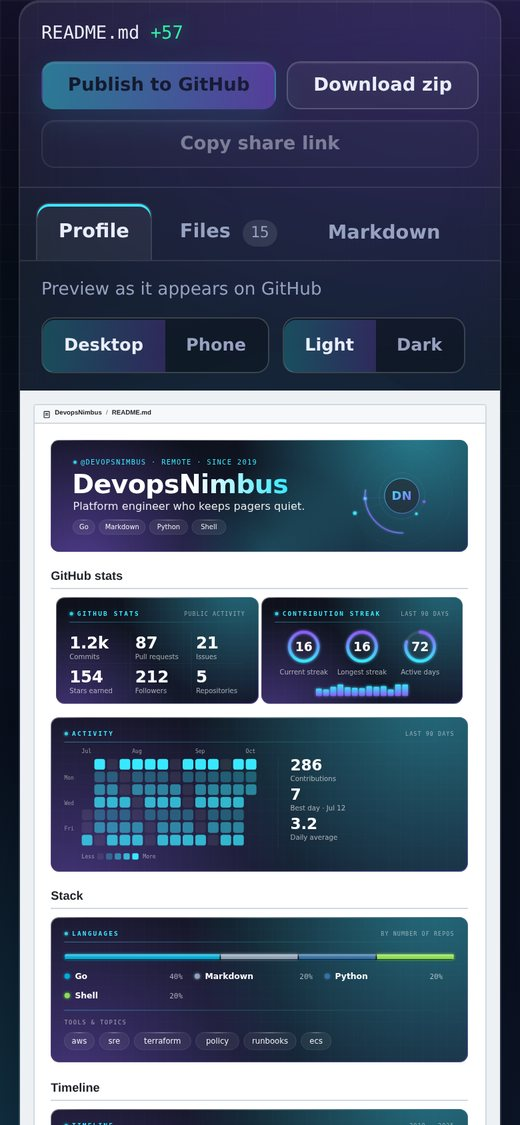
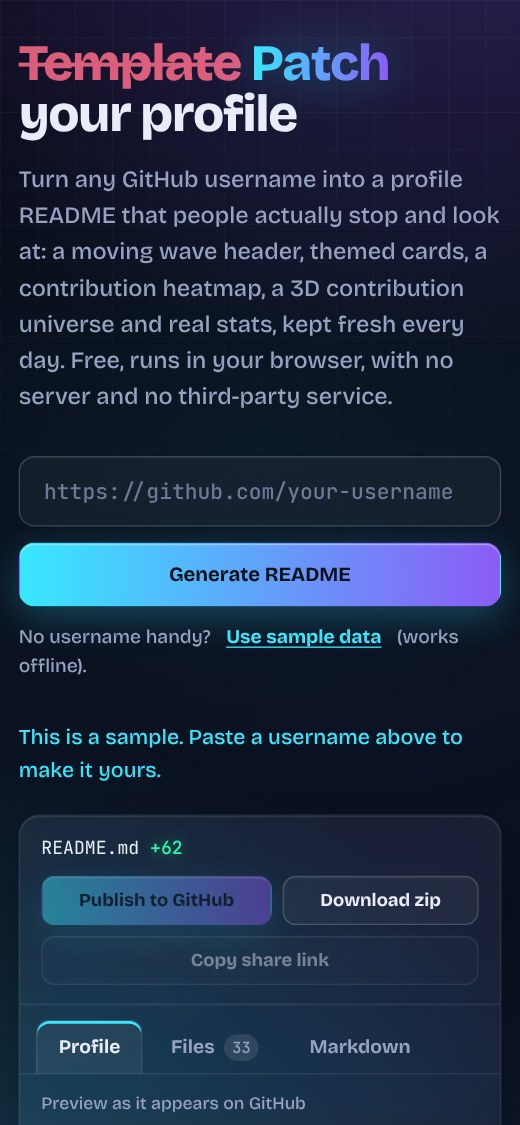
Show the new design by default: wave header/footer and 3D universe on; refresh screenshots
- Wave header and footer and the 3D contribution universe are now on by
  default (page checkboxes ticked, DEFAULTS), so the website's sample and
  every new user start with them; --no-wave and --no-universe turn them
  off from the CLI, and share links record only the switch-offs.
- Universe planets keep their fixed angle as an attribute, so a stopped
  animation still shows each planet in place; no zero animation-delay.
- Tests that exercise the orbit banner now ask for it explicitly; the
  motion test strips every animation class.
- Hero copy mentions the wave header and the 3D universe; the three docs
  screenshots are regenerated from the current code.

Claude-Session: https://claude.ai/code/session_016vZ4YTLGbkjEUoZbnyCWxy

diff --git a/test/core.test.js b/test/core.test.js
@@ -58,10 +58,10 @@ test("banner escapes markup in names and bios", () => {
 });
 
 test("banner is deterministic per username and differs between users", () => {
-  const a = core.buildBanner(core.SAMPLE, {});
-  assert.strictEqual(a, core.buildBanner(core.SAMPLE, {}));
+  const a = core.buildBanner(core.SAMPLE, { wave: false });
+  assert.strictEqual(a, core.buildBanner(core.SAMPLE, { wave: false }));
   const other = core.buildModel({ login: "someone-else", name: "Someone Else", created_at: "2024-01-01T00:00:00Z" }, []);
-  const b = core.buildBanner(other, {});
+  const b = core.buildBanner(other, { wave: false });
   const orbit = (svg) => (svg.match(/<circle cx="[\d.]+" cy="[\d.]+" r="[\d.]+" fill="#[0-9a-f]{6}" filter="url\(#glow\)"\/>/g) || []).join("");
   assert.notStrictEqual(orbit(a), orbit(b));
   assert.match(a, />DN</);          // initials in the core
@@ -513,7 +513,7 @@ test("text hero puts the designation directly under the name", () => {
 });
 
 test("banner shows the designation right after the name, with location in the handle line", () => {
-  const svg = core.buildBanner(core.SAMPLE, { role: "Platform Engineer" });
+  const svg = core.buildBanner(core.SAMPLE, { role: "Platform Engineer", wave: false });
   const name = svg.indexOf(">DevopsNimbus<"), des = svg.indexOf(">Platform Engineer at Northwind<");
   assert.ok(name > 0 && des > name);
   assert.match(svg, /@DEVOPSNIMBUS · REMOTE · SINCE 2019/);
@@ -521,8 +521,8 @@ test("banner shows the designation right after the name, with location in the ha
 });
 
 test("a tagline becomes a smaller second line under the designation, and the chips move down", () => {
-  const without = core.buildBanner(core.SAMPLE, { role: "Platform Engineer" });
-  const withTag = core.buildBanner(core.SAMPLE, { role: "Platform Engineer", tagline: "I keep the pagers quiet" });
+  const without = core.buildBanner(core.SAMPLE, { role: "Platform Engineer", wave: false });
+  const withTag = core.buildBanner(core.SAMPLE, { role: "Platform Engineer", tagline: "I keep the pagers quiet", wave: false });
   assert.ok(withTag.includes(">I keep the pagers quiet<"));
   assert.ok(without.includes('y="228"') && withTag.includes('y="252"'));
   const md = core.buildReadme(core.SAMPLE, { banner: false, role: "Platform Engineer", tagline: "I keep the pagers quiet" });
@@ -536,9 +536,12 @@ test("without a job title, the tagline (then location) takes the designation slo
 });
 
 test("long designations are shortened in the banner and escaped", () => {
-  const svg = core.buildBanner(core.SAMPLE, { role: "<Head of> " + "Platform ".repeat(12) });
-  assert.match(svg, /&lt;Head of&gt;/);
-  assert.match(svg, /…</);
+  ["orbit", "wave"].forEach((style) => {
+    const svg = core.buildBanner(core.SAMPLE, { role: "<Head of> " + "Platform ".repeat(12), wave: style === "wave" });
+    assert.match(svg, /&lt;Head of&gt;/, style);
+    // the orbit banner cuts it short; the wave banner first shrinks the line to its smallest size
+    assert.match(svg, style === "orbit" ? /…</ : /font-size="14"[^>]*>&lt;Head of&gt;/, style);
+  });
 });
 
 test("project card footer shortens itself instead of colliding with a long language name", () => {
@@ -603,7 +606,8 @@ test("auto theme follows the username and a fixed theme ignores it", () => {
 
 test("the chosen theme reaches the banner and every card", () => {
   const pal = core.palette("DevopsNimbus", "sunset");
-  const all = [core.buildBanner(core.SAMPLE, { theme: "sunset" })].concat(cards.buildCards(core.SAMPLE, { theme: "sunset" }).map((f) => f.data));
+  // the orbit banner and every card carry the theme's own colours (the wave pieces darken them for white text: tested with the wave)
+  const all = [core.buildBanner(core.SAMPLE, { theme: "sunset", wave: false })].concat(cards.buildCards(core.SAMPLE, { theme: "sunset", wave: false }).map((f) => f.data));
   all.forEach((svg, i) => { assert.ok(svg.includes(pal.a1) && svg.includes(pal.bg1), "file " + i + " is not themed"); });
   const paper = cards.buildCards(core.SAMPLE, { theme: "paper" }).map((f) => f.data).join("");
   assert.ok(paper.includes('fill="#0f172a"'), "paper uses dark text");
@@ -612,7 +616,7 @@ test("the chosen theme reaches the banner and every card", () => {
 
 /* ---------- motion ---------- */
 test("motion is on by default, switchable off, and never changes the still design", () => {
-  const strip = (svg) => svg.replace(/<style>[\s\S]*?<\/style>/g, "").replace(/ class="fx-[a-z0-9]+"/g, "").replace(/ style="[^"]*"/g, "");
+  const strip = (svg) => svg.replace(/<style>[\s\S]*?<\/style>/g, "").replace(/ class="(?:fx|wv|u)-[a-z0-9]+"/g, "").replace(/ style="[^"]*"/g, "");
   const files = (animate) => [core.buildBanner(core.SAMPLE, { animate })].concat(cards.buildCards(core.SAMPLE, { animate }).map((f) => f.data));
   const on = files(true), off = files(false);
   on.forEach((svg, i) => {
@@ -628,7 +632,8 @@ test("motion never hides content: only ambient loops, no entrance effects that r
   assert.doesNotMatch(css, /opacity:0[;}]|scaleY\(0\)|stroke-dasharray:0|stroke-dashoffset/, "no fade-in, grow-in or draw-in start states");
   [...css.matchAll(/\.fx-[a-z0-9]+\{[^}]*\}/g)].forEach(([rule]) => assert.match(rule, /infinite/, rule + " must be an ambient loop"));
   const all = [core.buildBanner(core.SAMPLE, {})].concat(cards.buildCards(core.SAMPLE, {}).map((f) => f.data));
-  all.forEach((svg) => assert.doesNotMatch(svg, /animation-delay/, "nothing waits before it appears"));
+  // a negative delay only sets where a loop starts (the universe's planets); a positive one would hold content back
+  all.forEach((svg) => assert.doesNotMatch(svg, /animation-delay:(?!-)/, "nothing waits before it appears"));
 });
 
 test("animated files stay light and contain nothing that could run code", () => {
@@ -779,7 +784,7 @@ test("buildFiles returns README, banner and cards; adaptive doubles the images a
 });
 
 test("the light set is genuinely light and the dark set genuinely dark", () => {
-  const dual = cards.buildFiles(core.SAMPLE, { adaptive: true, theme: "cyber" });
+  const dual = cards.buildFiles(core.SAMPLE, { adaptive: true, theme: "cyber", wave: false });
   const get = (n) => dual.find((f) => f.name === n).data;
   // each half sits on GitHub's own page colour, with GitHub's border, and keeps the theme's accents
   ["banner.svg", "cards/stats.svg"].forEach((n) => {
@@ -789,10 +794,10 @@ test("the light set is genuinely light and the dark set genuinely dark", () => {
   ["banner-light.svg", "cards/stats-light.svg"].forEach((n) => assert.ok(get(n).includes('stop-color="#ffffff"') && get(n).includes('stroke="#d1d9e0"'), n + " uses GitHub's light surface"));
   assert.ok(get("cards/stats-light.svg").includes('fill="#0f172a"'));
   assert.ok(!get("cards/stats.svg").includes('fill="#0f172a"'));
-  const paperDual = cards.buildFiles(core.SAMPLE, { adaptive: true, theme: "paper" });
+  const paperDual = cards.buildFiles(core.SAMPLE, { adaptive: true, theme: "paper", wave: false });
   assert.ok(paperDual.find((f) => f.name === "banner.svg").data.includes(core.THEMES.royal.a1), "a Paper profile still gets a dark twin");
   // a single set can land on either page, so it keeps the full themed background
-  const single = cards.buildFiles(core.SAMPLE, { adaptive: false, theme: "cyber" });
+  const single = cards.buildFiles(core.SAMPLE, { adaptive: false, theme: "cyber", wave: false });
   assert.ok(single.find((f) => f.name === "banner.svg").data.includes(core.THEMES.cyber.bg1));
 });
 
@@ -898,7 +903,7 @@ test("custom theme: a good colour is kept as chosen, hex is case-insensitive, ba
 });
 
 test("custom theme: reaches the banner and every card, in both halves of an adaptive set", () => {
-  const o = { theme: "custom", accent1: "#ff8800", accent2: "#00c2a8", adaptive: true, animate: false };
+  const o = { theme: "custom", accent1: "#ff8800", accent2: "#00c2a8", adaptive: true, animate: false, wave: false };   // the orbit banner shows the raw accents
   const files = cards.buildFiles(core.SAMPLE, o), get = (n) => files.find((f) => f.name === n).data;
   const dark = core.paletteFor("DevopsNimbus", Object.assign({}, o, { mode: "dark", native: true })), light = core.paletteFor("DevopsNimbus", Object.assign({}, o, { mode: "light", native: true }));
   assert.ok(get("banner.svg").includes(dark.a1) && get("banner.svg").includes(dark.bg1));
@@ -922,10 +927,12 @@ test("section order ignores unknown and repeated entries, keeps hidden sections 
   assert.deepStrictEqual(core.sectionOrder({ order: "projects, nonsense, PROJECTS ,stats,,connect" }), ["projects", "stats", "connect", "stack", "timeline"]);
   assert.deepStrictEqual(core.sectionOrder({}), core.SECTIONS);
   assert.deepStrictEqual(core.sectionOrder({ order: "" }), core.SECTIONS);
-  const md = core.buildReadme(core.SAMPLE, { order: "connect,projects", timeline: false, links: false });
+  const md = core.buildReadme(core.SAMPLE, { order: "connect,projects", timeline: false, links: false, wave: false });
   assert.deepStrictEqual(sectionsIn(md), ["projects", "stats", "stack"]);
   assert.ok(md.indexOf("banner.svg") < md.indexOf("## "), "header stays first");
   assert.ok(md.trimEnd().endsWith("</sub>") && md.lastIndexOf("---") > md.lastIndexOf("## "), "footer stays last");
+  const wave = core.buildReadme(core.SAMPLE, { order: "connect,projects" });
+  assert.ok(wave.lastIndexOf("footer") > wave.lastIndexOf("## ") && /<\/sub>\n\n<\/div>\s*$/.test(wave), "the wave footer and credit stay last");
 });
 
 test("every ordering of the five sections gives a complete README whose images all exist", () => {
@@ -1253,8 +1260,9 @@ test("initials: always something sensible, never empty, and always capitals", ()
 
 /* ---------- 3D contribution universe (ported from Git3D Universe) ---------- */
 test("the universe is opt-in, sits in the stats grid, and gets a light twin like every other card", () => {
-  assert.strictEqual(core.DEFAULTS.universe, false);
-  assert.doesNotMatch(core.buildReadme(core.SAMPLE, {}), /universe\.svg/);
+  assert.strictEqual(core.DEFAULTS.universe, true, "on by default, so the sample and new users show it");
+  assert.match(core.buildReadme(core.SAMPLE, {}), /universe/);
+  assert.doesNotMatch(core.buildReadme(core.SAMPLE, { universe: false }), /universe\.svg/, "and it can be switched off");
   const files = cards.buildFiles(core.SAMPLE, { universe: true }), names = files.map((f) => f.name), md = files[0].data;
   assert.ok(names.includes("cards/universe.svg") && names.includes("cards/universe-light.svg"));
   const section = md.split("## GitHub stats")[1].split("## Stack")[0];
@@ -1263,8 +1271,9 @@ test("the universe is opt-in, sits in the stats grid, and gets a light twin like
   assert.doesNotMatch(core.buildReadme(core.SAMPLE, { universe: true, cards: false }), /universe/, "text mode has no images");
   const quiet = Object.assign({}, core.SAMPLE, { activity: null });
   assert.doesNotMatch(core.buildReadme(quiet, { universe: true }), /universe/, "nothing to draw without activity");
-  assert.match(core.toQuery("x", { universe: true }), /universe=1/);
-  assert.strictEqual(core.fromQuery("?universe=1").opts.universe, true);
+  assert.match(core.toQuery("x", { universe: false }), /universe=0/);
+  assert.doesNotMatch(core.toQuery("x", {}), /universe/);
+  assert.strictEqual(core.fromQuery("?universe=0").opts.universe, false);
 });
 
 test("the universe follows the chosen theme and GitHub's page colours, and stays light and safe", () => {
@@ -1299,8 +1308,9 @@ test("the universe turns the daily counts into Sunday-first weeks and the same n
 
 /* ---------- wave header and footer ---------- */
 test("wave header and footer: opt-in, both halves of Day and night, footer above the credit", () => {
-  assert.strictEqual(core.DEFAULTS.wave, false);
-  assert.doesNotMatch(core.buildBanner(core.SAMPLE, {}), /id="wave"/, "the orbit banner stays the default");
+  assert.strictEqual(core.DEFAULTS.wave, true, "on by default, so the sample and new users show it");
+  assert.match(core.buildBanner(core.SAMPLE, {}), /id="wave"/);
+  assert.doesNotMatch(core.buildBanner(core.SAMPLE, { wave: false }), /id="wave"/, "the orbit banner is still one tick away");
   const files = cards.buildFiles(core.SAMPLE, { wave: true, role: "SRE", stack: "AWS, Go", tagline: "Ship it" }), names = files.map((f) => f.name), md = files[0].data;
   ["banner.svg", "banner-light.svg", "cards/footer.svg", "cards/footer-light.svg"].forEach((n) => assert.ok(names.includes(n), n));
   const banner = files.find((f) => f.name === "banner.svg").data;
@@ -1309,7 +1319,8 @@ test("wave header and footer: opt-in, both halves of Day and night, footer above
   assert.match(tail, /Patched together/, "the credit sits under the wave footer");
   assert.doesNotMatch(md, /\n---\n<sub>/, "no plain rule when the wave footer is on");
   assert.doesNotMatch(core.buildReadme(core.SAMPLE, { wave: true, cards: false }), /footer\.svg/, "text mode has no images");
-  assert.match(core.toQuery("x", { wave: true }), /wave=1/);
+  assert.match(core.toQuery("x", { wave: false }), /wave=0/);
+  assert.doesNotMatch(core.toQuery("x", {}), /wave/);
 });
 
 test("wave: readable white text on every gradient stop, the gradient stays put, and motion follows the rules", () => {

diff --git a/index.html b/index.html
@@ -8,7 +8,7 @@
 <meta name="theme-color" content="#060913">
 <meta name="viewport" content="width=device-width, initial-scale=1, viewport-fit=cover">
 <title>Patch your profile: a glass-style GitHub profile README generator</title>
-<meta name="description" content="Turn any GitHub username into a premium profile README with themed glass cards, a contribution heatmap, stats and a timeline. Free, runs in your browser, no server and no third-party service.">
+<meta name="description" content="Turn any GitHub username into a premium profile README with a moving wave header, themed cards, a contribution heatmap, a 3D contribution universe, stats and a timeline, kept fresh every day. Free, runs in your browser, no server and no third-party service.">
 <meta property="og:title" content="Patch your profile: premium GitHub profile README generator">
 <meta property="og:description" content="Themed glass cards, contribution heatmap, stats and timeline for your GitHub profile. Free and runs in your browser.">
 <meta property="og:type" content="website">
@@ -21,7 +21,7 @@
 <a class="skip" href="#main">Skip to the tool</a>
 <div class="wrap">
   <h1><span class="minus">Template</span> <span class="plus">Patch</span> your profile</h1>
-  <p class="lede">Turn any GitHub username into a profile README that people actually stop and look at: themed glass cards, a contribution heatmap, real stats and a timeline. Free, runs in your browser, with no server and no third-party service.</p>
+  <p class="lede">Turn any GitHub username into a profile README that people actually stop and look at: a moving wave header, themed cards, a contribution heatmap, a 3D contribution universe and real stats, kept fresh every day. Free, runs in your browser, with no server and no third-party service.</p>
 
   <form class="ask" id="ask">
     <input type="text" id="url" placeholder="https://github.com/your-username" aria-label="GitHub profile URL or username" autocomplete="off" spellcheck="false">
@@ -90,7 +90,7 @@
       <details class="grp">
         <summary>Sections</summary>
         <div class="chk"><input type="checkbox" id="o-banner" checked><label for="o-banner">Banner</label></div>
-        <div class="chk"><input type="checkbox" id="o-wave"><label for="o-wave">Wave header and footer (moving waves, name centred)</label></div>
+        <div class="chk"><input type="checkbox" id="o-wave" checked><label for="o-wave">Wave header and footer (moving waves, name centred)</label></div>
         <div class="chk"><input type="checkbox" id="o-cards" checked><label for="o-cards">Visual cards (stats, streak, projects)</label></div>
         <div class="chk"><input type="checkbox" id="o-heatmap" checked><label for="o-heatmap">Contribution heatmap</label></div>
         <div class="chk"><input type="checkbox" id="o-timeline" checked><label for="o-timeline">Timeline</label></div>
@@ -99,7 +99,7 @@
         <div class="chk"><input type="checkbox" id="o-bars" checked><label for="o-bars">Language bars (text mode)</label></div>
         <div class="chk"><input type="checkbox" id="o-pie"><label for="o-pie">Language donut chart</label></div>
         <div class="chk"><input type="checkbox" id="o-recent"><label for="o-recent">Recently pushed</label></div>
-        <div class="chk"><input type="checkbox" id="o-universe"><label for="o-universe">3D contribution universe</label></div>
+        <div class="chk"><input type="checkbox" id="o-universe" checked><label for="o-universe">3D contribution universe</label></div>
         <div class="chk"><input type="checkbox" id="o-credit" checked><label for="o-credit">Footer credit link</label></div>
       </details>
 

diff --git a/js/universe.js b/js/universe.js
@@ -164,8 +164,11 @@
       var color = HEX.test(repo.color || "") ? repo.color : t.glow;
       var label = esc(repo.name.length > 18 ? repo.name.slice(0, 17) + "…" : repo.name);
       var dur = 52 + ring * 20 + i * 3, phase = (i / list.length + ring * 0.17) % 1, deg = r1(phase * 360);
-      var turn = animate ? ' class="u-orbit" style="animation-duration:' + dur + "s;animation-delay:" + r1(-dur * phase) + 's"' : ' transform="rotate(' + deg + ')"';
-      var back = animate ? ' class="u-back" style="animation-duration:' + dur + "s;animation-delay:" + r1(-dur * phase) + 's"' : ' transform="rotate(' + (-deg) + ')"';
+      // the fixed angle is always there, so a still picture (or a visitor who prefers reduced motion) shows each planet at its
+      // own place on the ring; with motion on, the CSS animation takes over from that same angle
+      var anim = animate ? ' style="animation-duration:' + dur + "s" + (phase ? ";animation-delay:" + r1(-dur * phase) + "s" : "") + '"' : "";
+      var turn = (animate ? ' class="u-orbit"' : "") + ' transform="rotate(' + deg + ')"' + anim;
+      var back = (animate ? ' class="u-back"' : "") + ' transform="rotate(' + (-deg) + ')"' + anim;
       out += '<g transform="translate(' + CX + " " + CY + ") scale(1 " + FLAT + ')"><g' + turn + '><g transform="translate(' + R + ' 0)"><g' + back + '><g transform="scale(1 ' + r1(1 / FLAT * 1000) / 1000 + ')">' +
         '<ellipse cx="0" cy="' + r1(radius + 5) + '" rx="' + r1(radius * 1.1) + '" ry="' + r1(radius * 0.3) + '" fill="#000" opacity=".3"/>' +
         '<circle r="' + r1(radius) + '" fill="' + color + '"/><circle r="' + r1(radius) + '" fill="url(#planetShade)"/>' +

diff --git a/cli.js b/cli.js
@@ -23,8 +23,8 @@ Options:
   --linkedin <text>     LinkedIn username or URL
   --no-banner --no-cards --no-bars --pie --no-timeline --no-projects --no-links
   --recent              Add a "Recently pushed" card (your latest five repos, in any layout)
-  --universe            Add the 3D contribution universe (from Git3D Universe) under the stats
-  --wave                Wave header and footer: a gradient band with moving waves, name and title centred
+  --no-universe         Leave out the 3D contribution universe (on by default, from Git3D Universe)
+  --no-wave             Use the orbit banner and a plain footer instead of the wave header and footer (on by default)
   --universe-only       Rebuild only cards/universe.svg (and its light twin); used by the 3D universe workflow
   --no-adaptive         One card set only. By default there are dark and light sets, and GitHub shows the one matching the viewer
   --no-animation        Static cards (no motion)
@@ -97,6 +97,8 @@ function parseArgs(argv) {
       case "--no-adaptive": o.opts.adaptive = false; break;
       case "--universe": o.opts.universe = true; break;
       case "--wave": o.opts.wave = true; break;
+      case "--no-wave": o.opts.wave = false; break;
+      case "--no-universe": o.opts.universe = false; break;
       case "--universe-only": o.universeOnly = true; o.opts.universe = true; break;
       case "--no-animation": o.opts.animate = false; break;
       case "--no-heatmap": o.opts.heatmap = false; break;

diff --git a/test/cli.test.js b/test/cli.test.js
@@ -17,7 +17,7 @@ function run(args) {
 const sectionsIn = (md) => ["## GitHub stats", "## Stack", "## Timeline", "## Projects", "## Connect"].filter((h) => md.includes(h)).sort((a, b) => md.indexOf(a) - md.indexOf(b)).map((h) => h.slice(3));
 
 test("cli: --colors makes a custom theme and the files use those colours", () => {
-  const r = run(["--colors", "#ff8800,#00c2a8", "--no-animation"]);
+  const r = run(["--colors", "#ff8800,#00c2a8", "--no-animation", "--no-wave"]);
   assert.strictEqual(r.code, 0, r.err);
   assert.match(r.read("banner.svg"), /#ff8800/);
   assert.match(r.read("banner.svg"), /#00c2a8/);

diff --git a/js/core.js b/js/core.js
@@ -344,7 +344,7 @@
 
   var DEFAULTS = {
     style: "showcase", theme: "auto", accent1: "", accent2: "", order: "", featured: "", adaptive: true, mode: "", suffix: "", animate: true, heatmap: true, credit: true, siteUrl: "", tagline: "", role: "", stack: "", linkedin: "",
-    banner: true, cards: true, bars: true, pie: false, timeline: true, proj: true, recent: false, links: true, universe: false, wave: false
+    banner: true, cards: true, bars: true, pie: false, timeline: true, proj: true, recent: false, links: true, universe: true, wave: true
   };
   function withDefaults(o) {
     var out = {}, k;

diff --git a/README.md b/README.md
@@ -10,9 +10,9 @@ Turn any GitHub username into a profile README that stands out: a themed banner,
 
 ![The tool: a themed preview that shows the README as GitHub will show it](docs/website-preview.jpg)
 
-A profile README made with it, in a dark theme and in the light Paper theme:
+A profile README made with it (the sample profile, Royal theme, default options), as GitHub shows it on its dark and light pages: wave header, stats, heatmap, 3D contribution universe, languages, timeline, projects, Connect buttons and wave footer:
 
-![Example READMEs in a dark theme and in Paper](docs/example-readme-dark-and-light.jpg)
+![The same example README on GitHub's dark page and on its light page](docs/example-readme-dark-and-light.jpg)
 
 <img src="docs/mobile-preview.jpg" alt="The tool on a phone" width="260">
 
@@ -188,9 +188,9 @@ Both layouts can include a banner, stats, streak and heatmap cards, a Languages 
 
 **Share image.** Under the files there's a 1280×640 picture with your name, title, skills and four headline numbers, ready for LinkedIn, X or a repository's social preview. It always uses your theme, light/dark choice and custom colours, is never animated, and is deliberately kept out of the README package, the zip and the publish commit. From the terminal: `--share-image`.
 
-**Wave header and footer.** Tick *Wave header and footer* (or use `--wave`) to swap the banner for a gradient band in your theme's accents, with your name, title and first skills centred on it and two translucent waves drifting along its lower edge, plus a matching wave footer above the credit line. It's drawn by this tool (no outside image service like capsule-render), everything outside the waves is transparent so it melts into GitHub's light or dark page, the gradient is darkened just enough to keep the white text readable in every theme, and the waves stand still for visitors who prefer reduced motion. With *Day and night* you get light and dark versions like every other image.
+**Wave header and footer.** On by default (untick *Wave header and footer*, or use `--no-wave`, for the orbit banner and a plain footer): the banner is a gradient band in your theme's accents, with your name, title and first skills centred on it and two translucent waves drifting along its lower edge, plus a matching wave footer above the credit line. It's drawn by this tool (no outside image service like capsule-render), everything outside the waves is transparent so it melts into GitHub's light or dark page, the gradient is darkened just enough to keep the white text readable in every theme, and the waves stand still for visitors who prefer reduced motion. With *Day and night* you get light and dark versions like every other image.
 
-**3D contribution universe.** Tick *3D contribution universe* (or use `--universe`) to add a full-width card under the heatmap: your contribution calendar as a 3D terrain on a plate, your top repos orbiting it as planets sized by stars and coloured by language, and a panel with totals, streaks and a weekly sparkline. It's ported from Git3D Universe (`SandeepKomal/Git3D-Universe` on GitHub, MIT licence, Copyright (c) 2026 Sandeep Komal Pothu) and reworked to fit this project:
+**3D contribution universe.** On by default (untick *3D contribution universe*, or use `--no-universe`, to leave it out): a full-width card under the heatmap shows your contribution calendar as a 3D terrain on a plate, your top repos orbiting it as planets sized by stars and coloured by language, and a panel with totals, streaks and a weekly sparkline. It's ported from Git3D Universe (`SandeepKomal/Git3D-Universe` on GitHub, MIT licence, Copyright (c) 2026 Sandeep Komal Pothu) and reworked to fit this project:
 
 - **Kept fresh, no extra token.** It's drawn from the same data as the other cards. With [daily updates](#keep-the-stats-fresh-every-day) on, the daily workflow redraws it with everything else, and publishing also adds `.github/workflows/update-universe.yml`, which redraws just the universe tile every 6 hours in between. Neither needs a token beyond the one you publish with, and neither uses a third-party action. If you used the standalone Git3D Universe Action before (for example `git3d-universe.yml` or `test-git3d-universe.yml`), you can delete its workflow from your profile repo.
 - **Follows your template.** Its colours come from the theme you pick (including Custom colours), and with *Day and night* it gets a light twin on GitHub's white page and a dark one with a starfield on GitHub's dark page, exactly like the other cards.
